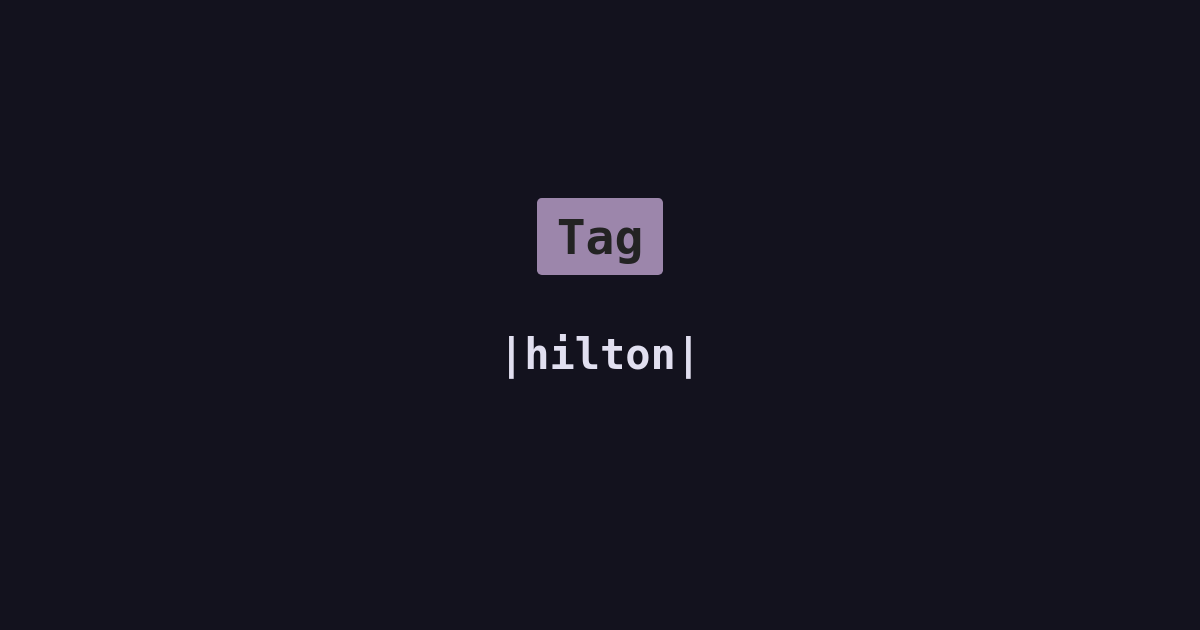
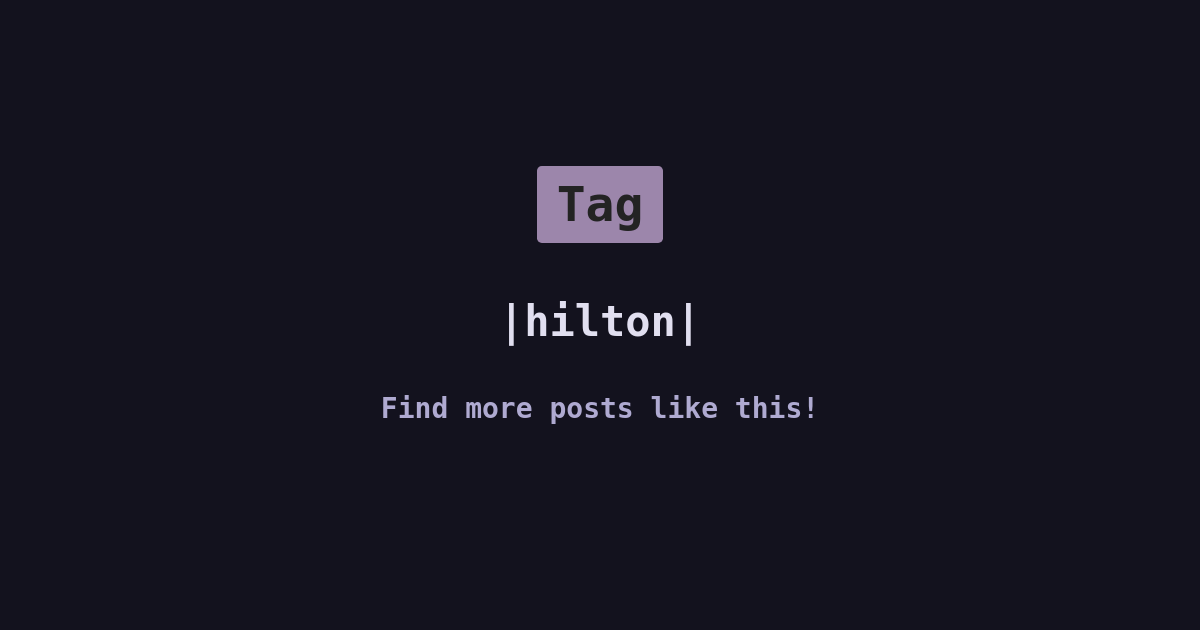
chore: make the by field funny quips

Changed region(s): [[0.4317, 0.2413, 0.555, 0.4524], [0.4008, 0.4825, 0.5858, 0.6032], [0.3083, 0.6333, 0.6783, 0.6635]]

diff --git a/tools/genOG.ts b/tools/genOG.ts
@@ -81,24 +81,31 @@ try {
 			case "blog":
 				type = "Blog";
 				if (file.split("/")[1] !== "index.html") {
-					by = "<p>By Kieran Klukas</p>";
+					by = "<p>A post ... yeah thats about it</p>";
 				} else {
 					by = "<p>All authored by Kieran Klukas</p>";
 				}
 				break;
 			case "verify":
+				type = "Slash Page";
+				by = "<p>So you can stalk me 💀</p>";
+				break;
 			case "pfp":
 				type = "Slash Page";
+				by = "<p>Want to stare at my pretty face?</p>";
 				break;
 			case "tags":
 				if (file.split("/")[1] === "index.html") {
 					type = "Tags";
+					by = "<p>A total archive!</p>";
 				} else {
 					type = "Tag";
+					by = "<p>Find more posts like this!</p>";
 				}
 				break;
 			case "index.html":
 				type = "Root";
+				by = "<p>Where it all begins</p>";
 				break;
 		}
 
